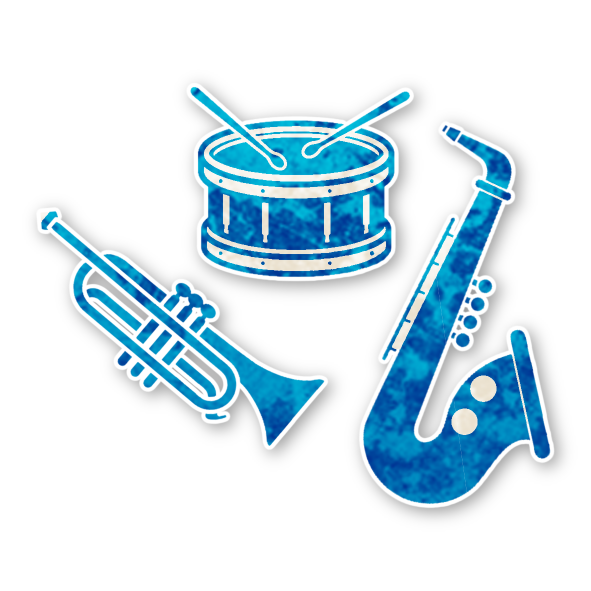
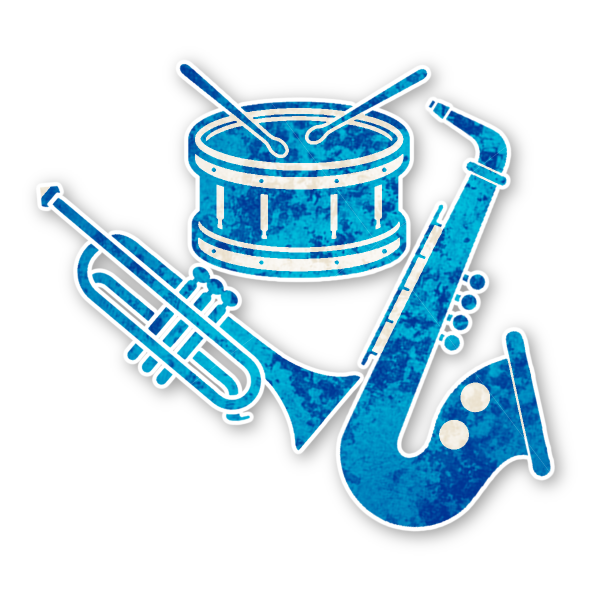
BotC: Add placeholder images (#472)

Changed region(s): [[0.0609, 0.0914, 0.9746, 0.9137]]

diff --git a/src/app/(public)/botc/characters.ts b/src/app/(public)/botc/characters.ts
@@ -166,7 +166,7 @@ export const EDITIONS: readonly Edition[] = [
     outsiders: ['kuppbar', 'puff', 'theclique', 'kamerer'],
     minions: ['notmarsk', 'dirigent', 'piff', 'spexare'],
     demons: ['deathbox', 'styrelse', 'sekreterare', 'gammaldryg'],
-    travellers: [],
+    travellers: ['lekstek'],
   },
   {
     id: 'carousel',
@@ -1789,6 +1789,10 @@ const _characters = {
   },
 
   // Murder on the Dancefloor - Travellers
+  lekstek: {
+    name: 'Lek & Stek',
+    description: 'TBD',
+  },
 
   // Carousel - Townsfolk
   acrobat: {
